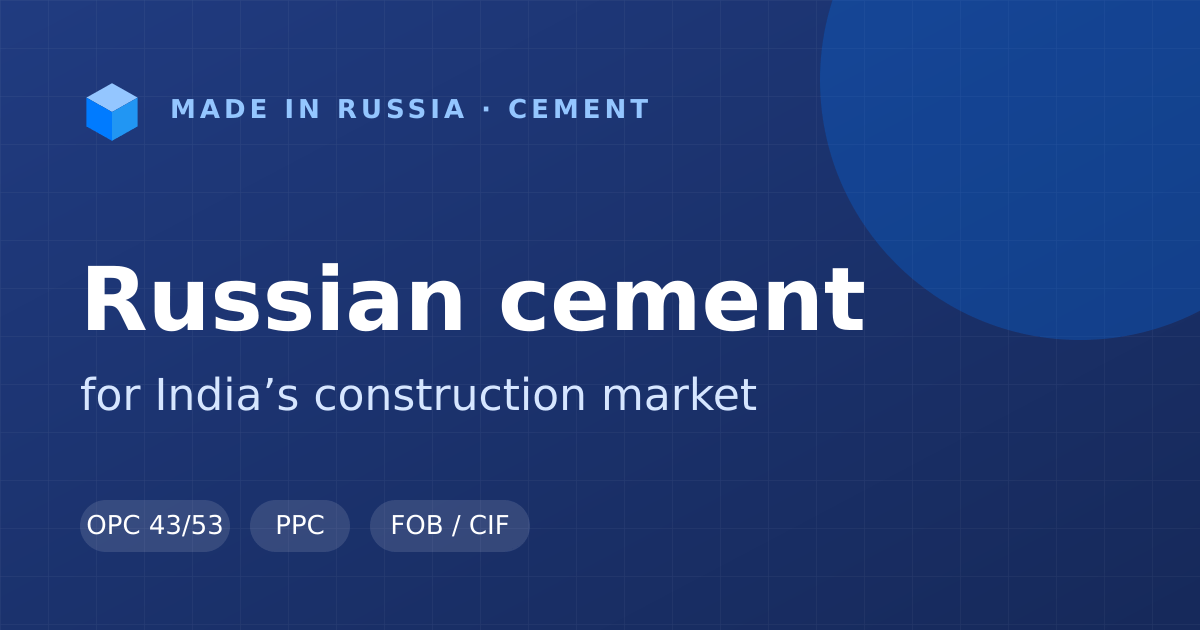
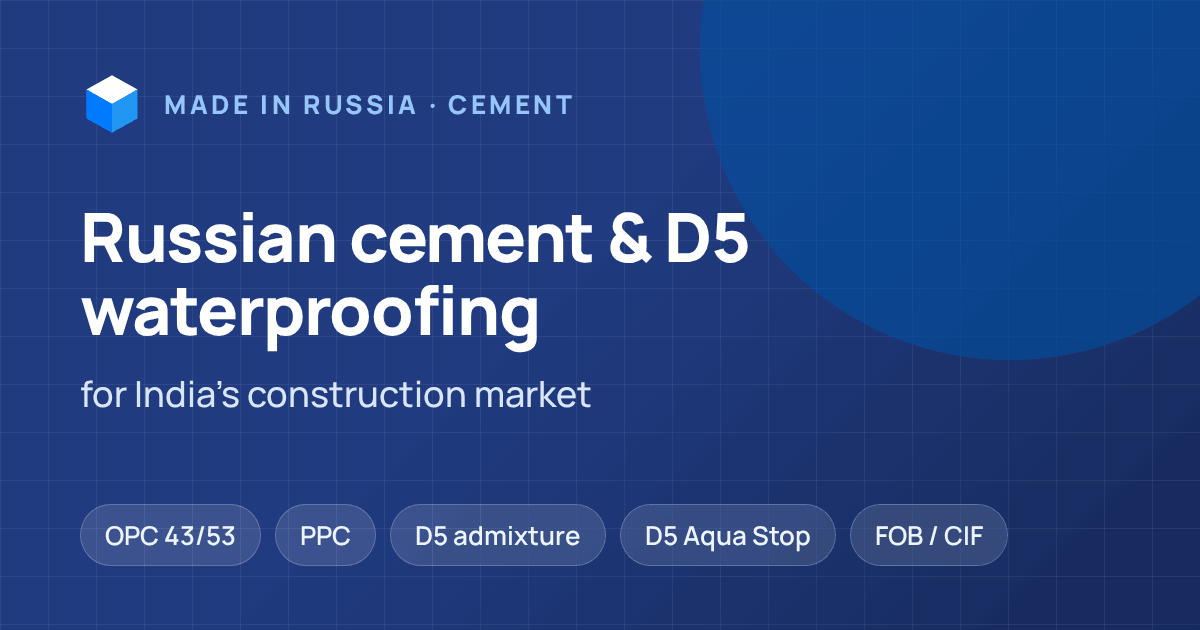
feat(seo): D5 in title and description, Product JSON-LD, OG generator and images
Claude-Session: https://claude.ai/code/session_01PpvEQWGSMfV8WjHDLpcqwL

diff --git a/src/i18n/hi.ts b/src/i18n/hi.ts
@@ -3,9 +3,9 @@ import type { Dictionary } from './types';
 // ЧЕРНОВИК: перевод на хинди требует вычитки носителем языка.
 export const hi = {
   meta: {
-    title: 'भारत के लिए रूसी सीमेंट — Made in Russia',
+    title: 'भारत के लिए रूसी सीमेंट और D5 वॉटरप्रूफ़िंग — Made in Russia',
     description:
-      'रूस से सीमेंट निर्माता: भारतीय बाज़ार के लिए OPC और PPC ग्रेड। सीधे फ़ैक्टरी से आपूर्ति, भारतीय बंदरगाहों तक समुद्री माल ढुलाई, प्रमाणित गुणवत्ता।',
+      'रूस से सीमेंट निर्माता: भारतीय बाज़ार के लिए OPC और PPC ग्रेड, D5 वॉटरप्रूफ़िंग एडमिक्सचर और D5 Aqua Stop रेडी-मिक्स। सीधे फ़ैक्टरी से आपूर्ति, भारतीय बंदरगाहों तक समुद्री माल ढुलाई, प्रमाणित गुणवत्ता।',
   },
   common: {
     skipToContent: 'मुख्य सामग्री पर जाएँ',
@@ -464,7 +464,7 @@ export const hi = {
   },
   footer: {
     aboutText:
-      'रूसी सीमेंट निर्माता — भारत को OPC और PPC ग्रेड की आपूर्ति। सीधे अनुबंध, समुद्री माल ढुलाई, पूर्ण निर्यात दस्तावेज़।',
+      'रूसी सीमेंट निर्माता — भारत को OPC और PPC ग्रेड और D5 वॉटरप्रूफ़िंग श्रृंखला की आपूर्ति। सीधे अनुबंध, समुद्री माल ढुलाई, पूर्ण निर्यात दस्तावेज़।',
     navTitle: 'अनुभाग',
     contactsTitle: 'संपर्क',
     phoneRu: 'रूस',

diff --git a/src/i18n/ru.ts b/src/i18n/ru.ts
@@ -2,9 +2,9 @@ import type { Dictionary } from './types';
 
 export const ru = {
   meta: {
-    title: 'Российский цемент для Индии — Made in Russia',
+    title: 'Российский цемент и гидроизоляция D5 для Индии — Made in Russia',
     description:
-      'Производитель цемента из России: марки OPC и PPC для индийского рынка. Прямые поставки с завода, морская доставка в порты Индии, сертифицированное качество.',
+      'Производитель цемента из России: марки OPC и PPC, гидроизоляционная добавка D5 и готовая смесь D5 Aqua Stop для индийского рынка. Прямые поставки с завода, морская доставка в порты Индии, сертифицированное качество.',
   },
   common: {
     skipToContent: 'Перейти к содержимому',
@@ -467,7 +467,7 @@ export const ru = {
   },
   footer: {
     aboutText:
-      'Российский производитель цемента, поставки марок OPC и PPC в Индию. Прямые контракты, морская доставка, полный пакет экспортных документов.',
+      'Российский производитель цемента, поставки марок OPC и PPC и линейки гидроизоляции D5 в Индию. Прямые контракты, морская доставка, полный пакет экспортных документов.',
     navTitle: 'Разделы',
     contactsTitle: 'Контакты',
     phoneRu: 'Россия',

diff --git a/src/i18n/en.ts b/src/i18n/en.ts
@@ -2,9 +2,9 @@ import type { Dictionary } from './types';
 
 export const en = {
   meta: {
-    title: 'Russian Cement for India — Made in Russia',
+    title: 'Russian Cement & D5 Waterproofing for India — Made in Russia',
     description:
-      'Cement manufacturer from Russia: OPC and PPC grades for the Indian market. Direct factory supply, sea freight to Indian ports, quality certified.',
+      'Cement manufacturer from Russia: OPC and PPC grades plus D5 waterproofing admixture and D5 Aqua Stop ready-mix for the Indian market. Direct factory supply, sea freight to Indian ports, quality certified.',
   },
   common: {
     skipToContent: 'Skip to content',
@@ -469,7 +469,7 @@ export const en = {
   },
   footer: {
     aboutText:
-      'Russian cement manufacturer supplying OPC and PPC grades to India. Direct contracts, sea freight, full export documentation.',
+      'Russian cement manufacturer supplying OPC and PPC grades and the D5 waterproofing line to India. Direct contracts, sea freight, full export documentation.',
     navTitle: 'Sections',
     contactsTitle: 'Contacts',
     phoneRu: 'Russia',
